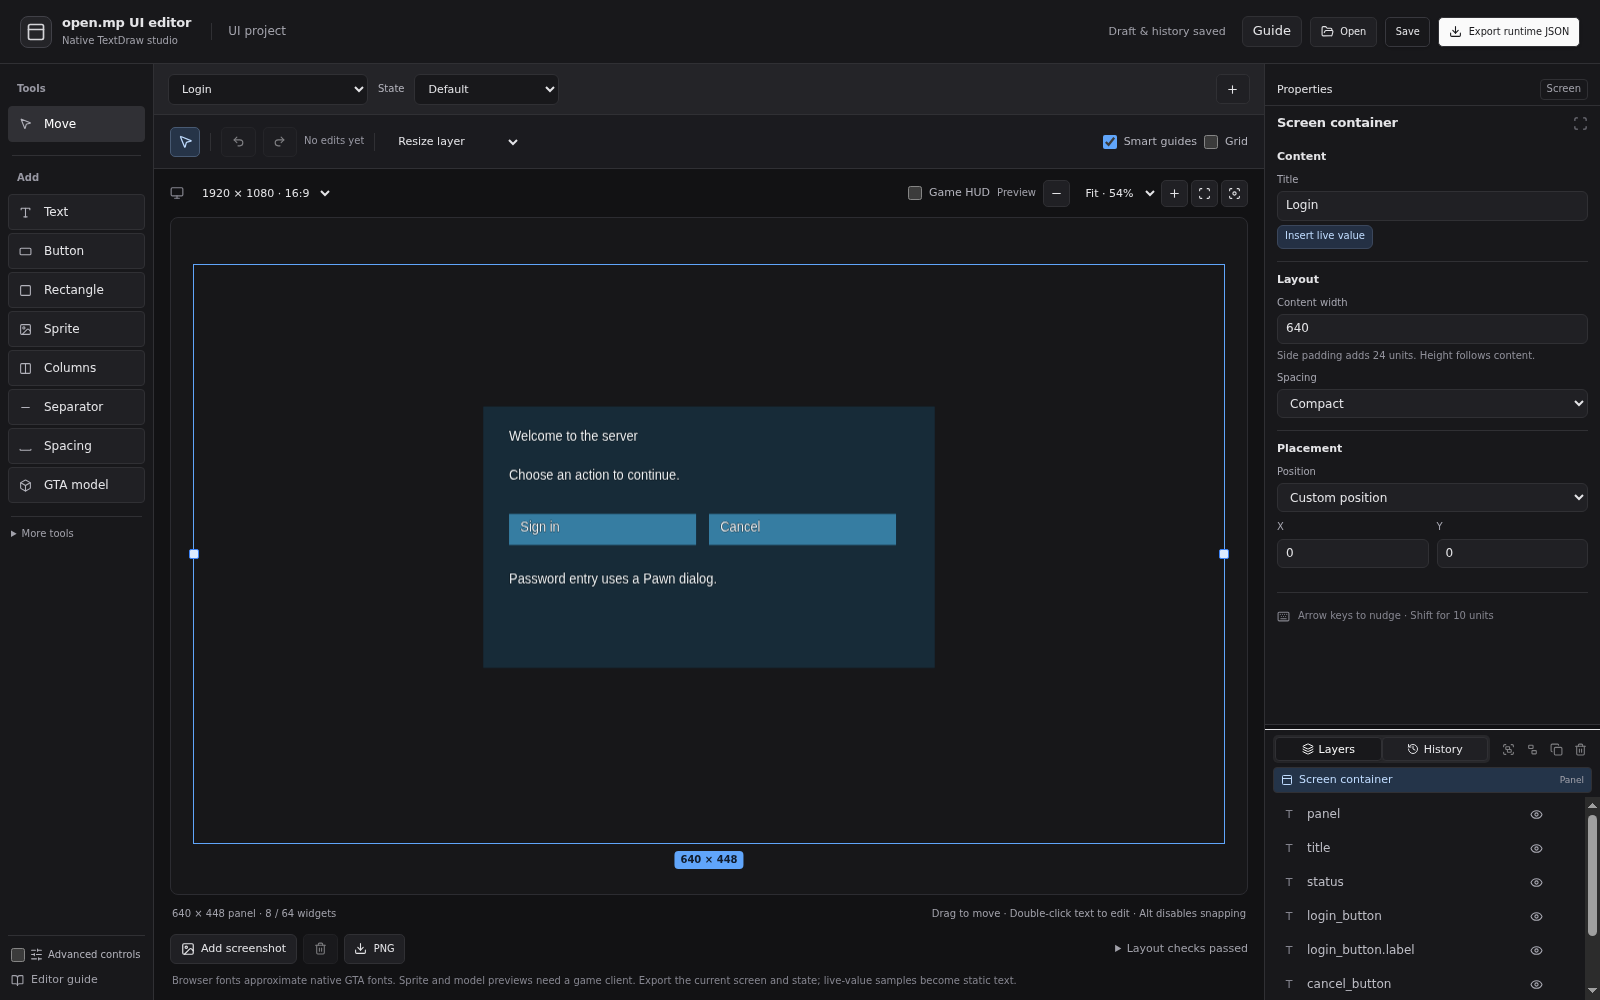
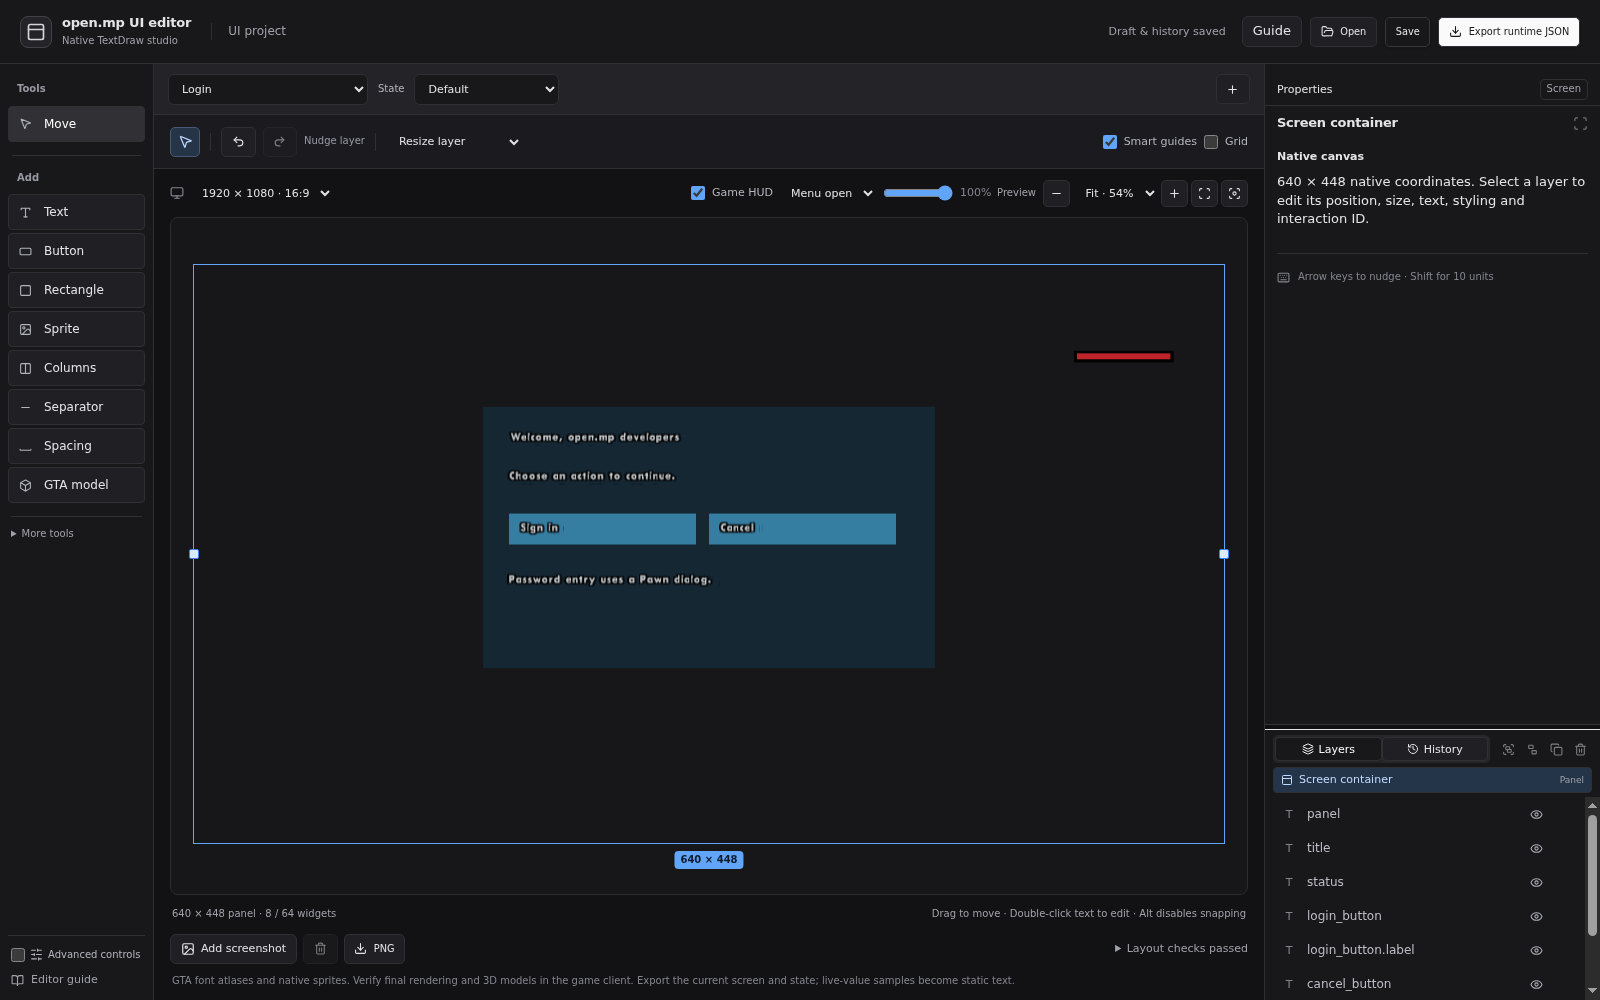
Show restored GTA previews and sprite library in documentation

diff --git a/README.md b/README.md
@@ -104,6 +104,10 @@ Use the complete [quickstart](pawn/examples/quickstart.pwn) for player class set
 
 Open the [public editor](https://abdulrahman1s.github.io/open-mp-ui-editor/). The initial examples use exact native primitive bounds. Select an element in Layers or on the canvas; change its ID, geometry, text, color and interaction flags in Properties. Drag to move; side/corner handles resize; arrow keys nudge. Ctrl/Cmd+Z undoes. Group related layers with Ctrl/Cmd+G. Resize changes the container; **Scale layer & text** scales its presentation.
 
+The sprite library searches 449 bundled textures and shows both thumbnails and full previews, without an internet fetch for each texture.
+
+![Bundled GTA sprite browser](docs/sprites.png)
+
 Create a new screen with the **+** beside the screen selector. New compact/column layouts retain the original flow-based tools and stylesheet editor. Add buttons with unique IDs in their Interaction properties. Runtime interactions are the element IDs, regardless of the legacy action label shown in flow-layout controls. **No action** disables export of that button's click target.
 
 - **Save** stores editable project JSON, including flow layout and preview samples. Browser drafts also survive refresh when browser storage permits. Download projects to keep a durable backup.
